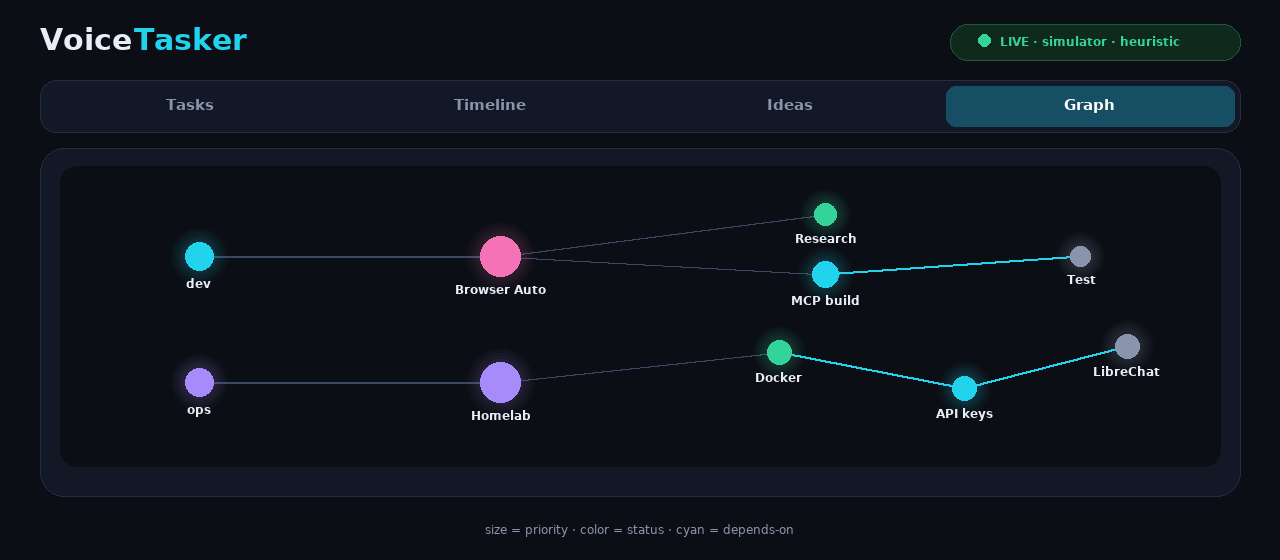
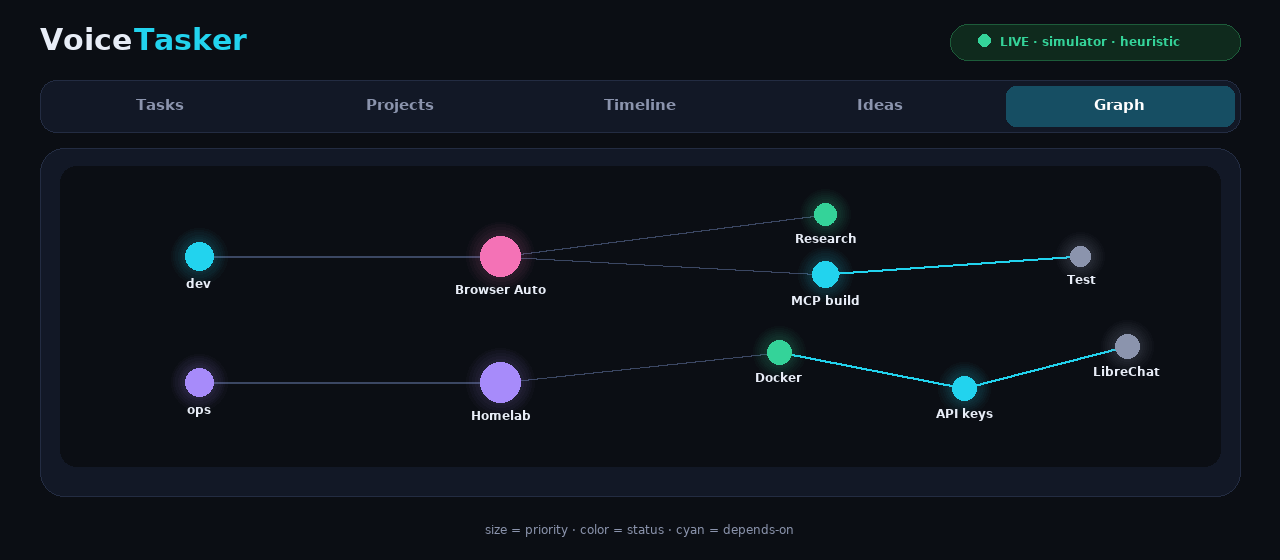
Add Projects tab: tasks grouped by category -> project
- demo.html: Projects tab with category sections, project cards,
  avg progress bars, status dots, click-through to Tasks;
  live in both backend + local modes
- mockups: projects.png + 5-tab bar across all renders
- requirements: pillow for mockup generator

diff --git a/demo.html b/demo.html
@@ -119,6 +119,17 @@
   #spofoverlay input{flex:1; background:transparent; border:none; outline:none; color:var(--txt); font-size:16px}
   #spofoverlay .orb{width:16px; height:16px; border-radius:50%; background:var(--cyan);
     box-shadow:0 0 12px var(--cyan); animation:blink 1s infinite}
+  .catch{display:flex;align-items:center;gap:10px;margin:14px 4px 10px;font-size:13px;font-weight:800;text-transform:uppercase;letter-spacing:1.5px;color:var(--dim)}
+  .cdot{width:12px;height:12px;border-radius:50%;flex-shrink:0}
+  .projcard{background:var(--card);border:1px solid var(--line);border-radius:18px;padding:14px 16px;margin-bottom:12px;cursor:pointer;transition:.2s}
+  .projcard:hover{border-color:#33415f}
+  .projcard h4{font-size:16px;font-weight:800}
+  .projcard .sub{font-size:12px;color:var(--dim);font-weight:600;margin:5px 0 9px}
+  .projcard .bar{margin:0 0 8px}
+  .ptask{display:flex;align-items:center;gap:10px;padding:7px 10px;border-radius:10px;font-size:13px;font-weight:600}
+  .ptask:hover{background:#1b2438}
+  .sdot{width:9px;height:9px;border-radius:50%;flex-shrink:0}
+  .ptask .p{margin-left:auto;color:var(--dim);font-size:12px;flex-shrink:0}
   .kbd{font-size:11px; background:#273150; padding:3px 8px; border-radius:6px; color:var(--dim); font-weight:700}
   footer{text-align:center; color:var(--dim); font-size:12px; margin-top:26px}
 </style>
@@ -132,6 +143,7 @@
 
   <nav class="tabs">
     <button class="tab active" data-v="tasks">🧱 Tasks</button>
+    <button class="tab" data-v="projects">📁 Projects</button>
     <button class="tab" data-v="timeline">⏱ Timeline</button>
     <button class="tab" data-v="ideas">🏆 Ideas</button>
     <button class="tab" data-v="graph">🕸 Graph</button>
@@ -148,6 +160,8 @@
   </div>
 
   <div class="view active" id="v-tasks"><div id="tasklist"></div></div>
+
+  <div class="view" id="v-projects"><div class="panel"><div class="proj">📁 Projects · grouped by category</div><div id="projectlist"></div></div></div>
 
   <div class="view" id="v-timeline">
     <div class="panel"><div class="proj">⏱ Time · progress vs goal</div><div id="timelines"></div></div>
@@ -297,9 +311,10 @@ function spawnCard(d){
   }
   const el = document.createElement('div');
   el.className = 'card pop'; el.innerHTML = cardHTML(d);
-  el.dataset.title = d.t; el.dataset.pct = d.pct;
+  el.dataset.title = d.t; el.dataset.pct = d.pct; el.dataset.c = d.c || 'general';
   sec.appendChild(el);
   renderTimeline();
+  renderProjects();
 }
 function typeStep(i){
   if(i >= STEPS.length){ cap.innerHTML += ' <span style="color:#34d399">✓ all captured</span>'; return; }
@@ -339,6 +354,7 @@ document.querySelectorAll('.tab').forEach(b=> b.onclick = ()=>{
   b.classList.add('active');
   document.getElementById('v-'+b.dataset.v).classList.add('active');
   if(b.dataset.v==='graph') graphResize();
+  if(b.dataset.v==='projects') renderProjects();
 });
 function renderTimeline(){
   const rows = [...document.querySelectorAll('.card')].map(c=>({
@@ -415,6 +431,44 @@ spofin.addEventListener('keydown', e=>{
   }
 });
 
+/* ============ Projects view: grouped by category → project ============ */
+const CATCOL = {dev:'#22d3ee', ops:'#a78bfa', research:'#f472b6', personal:'#34d399', admin:'#fbbf24', general:'#8b94ad', inbox:'#8b94ad'};
+function collectTasks(){
+  const out = [];
+  document.querySelectorAll('#tasklist > div[id^="sec-"]').forEach(sec=>{
+    const h = sec.querySelector('.proj b');
+    const proj = h ? h.textContent : 'Inbox';
+    sec.querySelectorAll('.card').forEach(c=> out.push({
+      title: c.dataset.title||'?', c: c.dataset.c||'general',
+      pct: parseInt(c.dataset.pct||'0'), proj }));
+  });
+  return out;
+}
+function renderProjects(){
+  const groups = {};
+  collectTasks().forEach(t=>{
+    (groups[t.c] = groups[t.c]||{});
+    (groups[t.c][t.proj] = groups[t.c][t.proj]||[]).push(t);
+  });
+  const el = document.getElementById('projectlist');
+  const cats = Object.keys(groups);
+  if(!cats.length){ el.innerHTML = '<div style="color:var(--dim);font-size:13px">No tasks yet — press Replay voice demo.</div>'; return; }
+  el.innerHTML = cats.map(cat=>{
+    const projs = Object.entries(groups[cat]);
+    const col = CATCOL[cat]||'#8b94ad';
+    const n = projs.reduce((a,[,ts])=>a+ts.length,0);
+    return `<div class="catch"><span class="cdot" style="background:${col};box-shadow:0 0 8px ${col}"></span>${cat} · ${projs.length} project(s) · ${n} task(s)</div>` +
+    projs.map(([name, ts])=>{
+      const avg = Math.round(ts.reduce((a,t)=>a+t.pct,0)/ts.length);
+      const rows = ts.map(t=>{
+        const dot = t.pct>=100?'var(--green)':t.pct>0?'var(--cyan)':'#3b4763';
+        return `<div class="ptask"><span class="sdot" style="background:${dot}"></span><span>${t.title}</span><span class="p">${t.pct}%</span></div>`;
+      }).join('');
+      return `<div class="projcard" onclick="document.querySelector('[data-v=tasks]').click()"><h4>${name}</h4><div class="sub">${ts.length} task(s) · ${avg}% avg progress</div><div class="bar"><i style="width:${avg}%"></i></div>${rows}</div>`;
+    }).join('');
+  }).join('');
+}
+
 /* ============ Backend link (FastAPI) — falls back to local demo ============ */
 const API = ''; // same origin: uvicorn serves this file at /
 let BACKEND = false, WS = null;
@@ -457,9 +511,11 @@ function upsertApiCard(t){
   if(!el){ el=document.createElement('div'); el.className='card pop'; apiCards[t.id]=el; sec.appendChild(el); }
   el.dataset.title=t.title; el.dataset.pct=pct; el.dataset.deps=JSON.stringify(t.deps||[]);
   el.dataset.order=t.dep_order||'';
+  el.dataset.c=t.category||'general';
   el.innerHTML = cardHTML({t:t.title, c:t.category||'general', chain:null,
     dep:'', pct, el:`${Math.round((t.elapsed_s||0)/60)}/${t.estimate_min||25}m`});
   refreshDepLabels(el);
+  renderProjects();
 }
 function refreshDepLabels(el){
   const deps = JSON.parse(el.dataset.deps||'[]');

diff --git a/screenshots/render_mockups.py b/screenshots/render_mockups.py
@@ -64,8 +64,8 @@ def header(d, W):
 
 
 def tabs(d, W, active=0):
-    labels = ["Tasks", "Timeline", "Ideas", "Graph"]
-    tw = (W - 80) / 4
+    labels = ["Tasks", "Projects", "Timeline", "Ideas", "Graph"]
+    tw = (W - 80) / len(labels)
     d.rounded_rectangle([40, 80, W - 40, 132], 16, fill=PANEL, outline=LINE, width=1)
     for i, lab in enumerate(labels):
         cx = 40 + tw * i
@@ -187,7 +187,7 @@ def render_ideas():
     img = Image.new("RGB", (W, H), BG)
     d = ImageDraw.Draw(img)
     header(d, W)
-    tabs(d, W, 2)
+    tabs(d, W, 3)
     d.rounded_rectangle([40, 148, W - 40, 488], 24, fill=PANEL, outline=LINE, width=1)
     cw = (W - 80 - 28 * 7) / 6
     for i, (tier, col, ideas) in enumerate(tiers):
@@ -219,7 +219,7 @@ def render_graph():
     img = Image.new("RGB", (W, H), BG)
     d = ImageDraw.Draw(img)
     header(d, W)
-    tabs(d, W, 3)
+    tabs(d, W, 4)
     gx, gy, gw, gh = 60, 166, W - 120, 300
     d.rounded_rectangle([40, 148, W - 40, 496], 24, fill=PANEL, outline=LINE, width=1)
     d.rounded_rectangle([gx, gy, gx + gw, gy + gh], 16, fill=(11, 14, 20))
@@ -238,12 +238,58 @@ def render_graph():
     print("wrote graph.png")
 
 
+def render_projects():
+    W, H = 1280, 800
+    img = Image.new("RGB", (W, H), BG)
+    d = ImageDraw.Draw(img)
+    header(d, W)
+    tabs(d, W, 1)
+    d.rounded_rectangle([40, 148, W - 40, 736], 24, fill=PANEL, outline=LINE, width=1)
+    d.text((60, 168), "PROJECTS · GROUPED BY CATEGORY", font=F_SMALL, fill=DIM)
+    sections = [
+        ("dev", CYAN, [("Browser Automation",
+                        [("Research browser automation", 80), ("Build the BrowserUse MCP", 10),
+                         ("Test automations", 0)])]),
+        ("ops", VIOLET, [("Homelab revival",
+                          [("Reinstall docker", 12), ("Grab all my api keys and env vars…", 0),
+                           ("Set up librechat on top of all that", 0)])]),
+    ]
+    y = 198
+    for cat, col, projs in sections:
+        d.ellipse([60, y, 72, y + 12], fill=col)
+        n = sum(len(ts) for _, ts in projs)
+        d.text((82, y - 3), f"{cat.upper()} · {len(projs)} PROJECT(S) · {n} TASK(S)",
+               font=F_SMALL, fill=DIM)
+        y += 30
+        for name, ts in projs:
+            avg = round(sum(p for _, p in ts) / len(ts))
+            cardh = 104 + len(ts) * 34
+            d.rounded_rectangle([60, y, W - 60, y + cardh], 18, fill=CARD, outline=LINE, width=1)
+            d.text((80, y + 14), name, font=F_BODY, fill=TXT)
+            d.text((80, y + 36), f"{len(ts)} task(s) · {avg}% avg progress", font=F_TINY, fill=DIM)
+            d.rounded_rectangle([80, y + 58, W - 80, y + 67], 4, fill=TRACK)
+            if avg > 0:
+                d.rounded_rectangle([80, y + 58, 80 + (W - 160) * avg / 100, y + 67], 4, fill=CYAN)
+            ry = y + 78
+            for title, pct in ts:
+                dot = GREEN if pct >= 100 else (CYAN if pct > 0 else (59, 71, 99))
+                d.ellipse([80, ry + 7, 89, ry + 16], fill=dot)
+                d.text((100, ry + 3), title, font=F_TINY, fill=TXT)
+                d.text((W - 80, ry + 3), f"{pct}%", font=F_TINY, fill=DIM, anchor="ra")
+                ry += 34
+            y += cardh + 14
+    d.text((W / 2, 762), "click a project to jump to its tasks", font=F_TINY, fill=DIM, anchor="ma")
+    img.save(OUT / "projects.png")
+    print("wrote projects.png")
+
+
 def main():
     for stale in OUT.glob("*.svg"):
         stale.unlink()
     render_tasks()
     render_ideas()
     render_graph()
+    render_projects()
 
 
 if __name__ == "__main__":

diff --git a/ARCHITECTURE.md b/ARCHITECTURE.md
@@ -198,6 +198,7 @@ Main web app (`ui/web/`, React + Vite + Tailwind):
 | Tab | What it shows |
 |---|---|
 | **Tasks** (default) | HUGE rounded-3xl cards (min-h 96px, chunky type), grouped by project, sorted by priority rank. Each card: checkbox, title, category pill, `1→2→3` dep badge, time bar (elapsed/estimate), ▶/⏸, `⋮` → **Send to agent…** |
+| **Projects** | Tasks grouped by category → project, avg progress, click-through to Tasks |
 | **Timeline** | Per-task + per-project time, progress vs goal, today's burn |
 | **Ideas** | S/A/B/C/D/F tier columns (see §9), drag between tiers = feedback signal |
 | **Graph** | Live knowledge graph: `category → project → task` + dep edges (see §10) |
